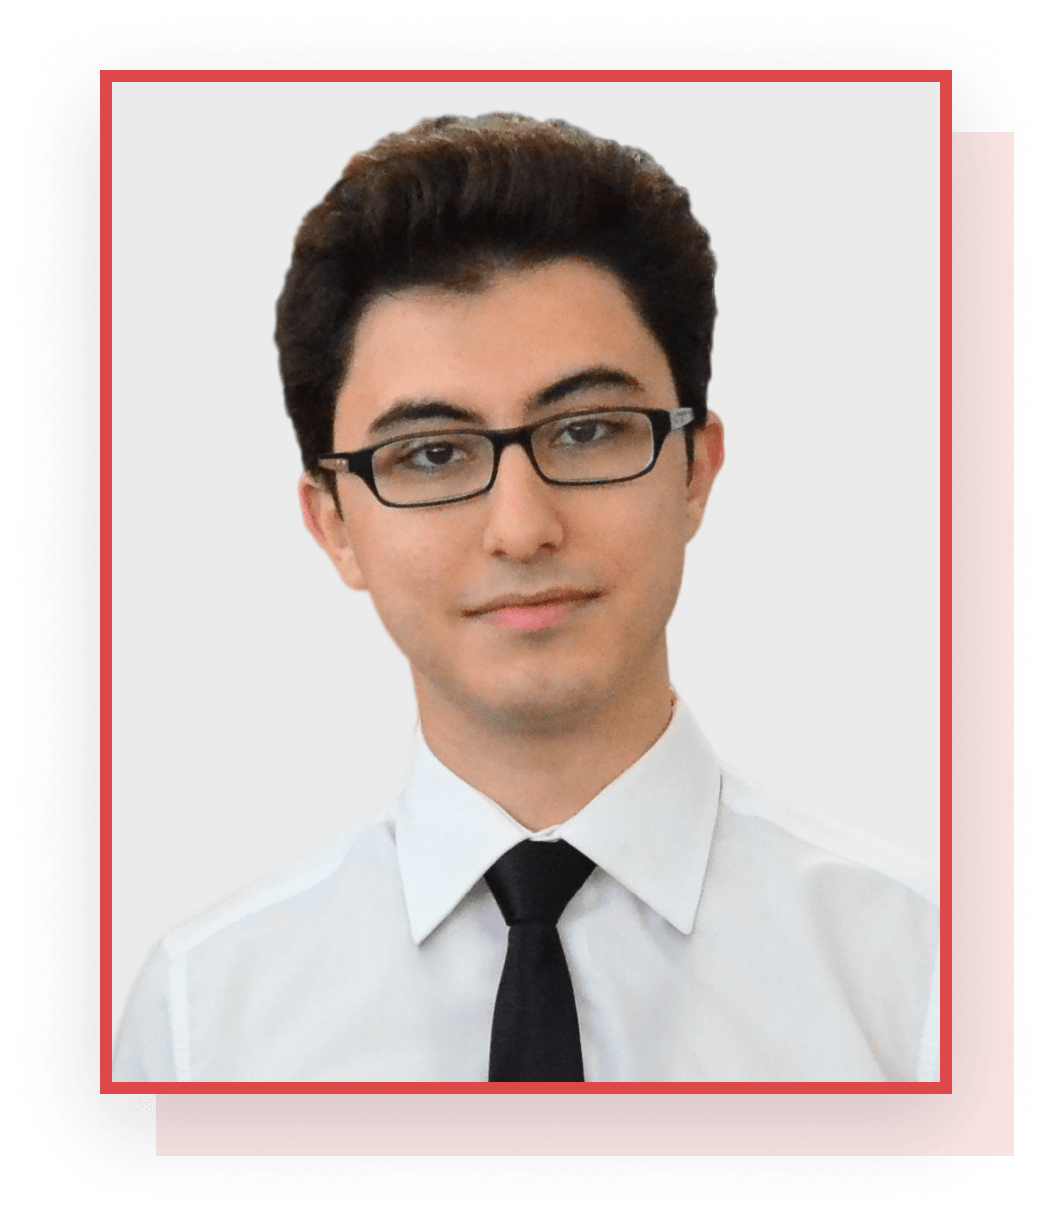
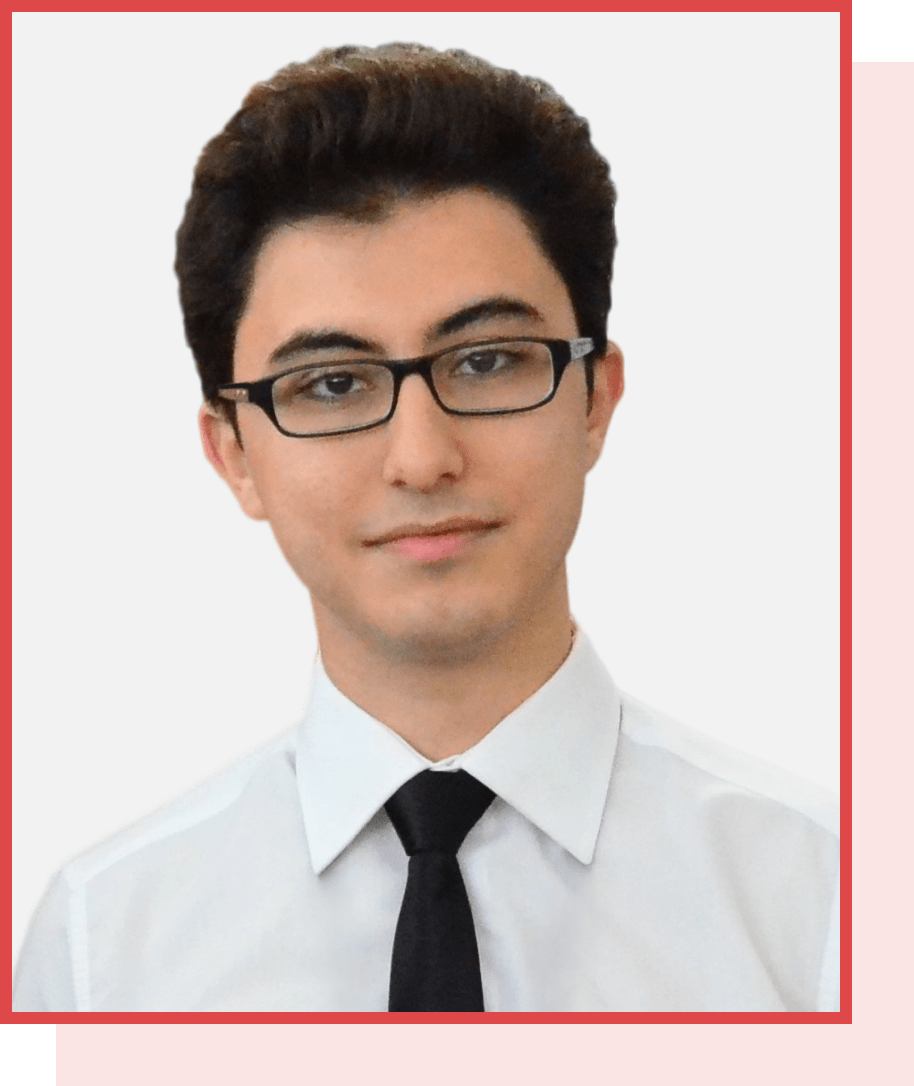
changed navbar breakpoint

diff --git a/src/components/sections/hero/hero.scss b/src/components/sections/hero/hero.scss
@@ -5,10 +5,23 @@
   display: flex;
   align-items: center;
   position: relative;
+  min-height: calc(100vh - 60px);
+
+  @include respond(tab-land) {
+    justify-content: center;
+    align-items: flex-start;
+    flex-direction: column;
+  }
 }
 
 .hero-content {
-  margin: 290px 0 350px;
+  @include respond(tab-land) {
+    margin: 0 100px 30px 0;
+  }
+
+  @include respond(tab-port) {
+    margin-right: 50px;
+  }
 }
 
 .hero-paragraph {
@@ -18,8 +31,14 @@
 .hero-photo {
   max-width: 650px;
   min-width: 400px;
-  filter: drop-shadow(0px 15px 50px rgba(0, 0, 0, 0.15));
-  margin-right: 50px;
+  // filter: drop-shadow(0px 15px 50px rgba(0, 0, 0, 0.15));
+  margin: 0 50px 0 30px;
+
+  @include respond(tab-land) {
+    margin: 0 0 30px 0px;
+    width: 20vw;
+  }
+
 }
 
 .button-layout {

diff --git a/src/components/brandLogo/brandLogo.scss b/src/components/brandLogo/brandLogo.scss
@@ -5,7 +5,7 @@
   margin: 30px 25px 0px;
   cursor: pointer;
 
-  @include respond(phone) {
+  @include respond(tab-port) {
     width: auto;
     margin: 0;
     padding-top: 20px;
@@ -21,7 +21,7 @@
   color: black;
   margin-bottom: 15px;
 
-  @include respond(phone) {
+  @include respond(tab-port) {
     font-size: 40px;
   }
 }
@@ -37,7 +37,7 @@
   line-height: 22px;
   color: black;
 
-  @include respond(phone) {
+  @include respond(tab-port) {
     display: none;
   }
 }
@@ -48,7 +48,7 @@
 }
 
 .big {
-  @include respond(phone) {
+  @include respond(tab-port) {
     display: none;
   }
 }

diff --git a/src/components/header/header.js b/src/components/header/header.js
@@ -17,7 +17,7 @@ export default class Header extends Component {
   }
 
   handleScreenSize = () => {
-    this.setState(window.innerWidth > 730 ? {navbarVisible: true} : {navbarVisible:false})
+    this.setState(window.innerWidth > 900 ? {navbarVisible: true} : {navbarVisible:false})
   }
 
   componentDidMount() {

diff --git a/src/main.scss b/src/main.scss
@@ -63,8 +63,12 @@ span {
 
 .section {
   width: calc(100vw - 340px);
-  margin: 0 0 0 280px ;
+  margin-left: 280px;
   overflow: hidden;
+
+  @include respond(tab-port) {
+    margin-left: 230px;
+  }
 }
 
 a {

diff --git a/src/components/navbar/navbar.scss b/src/components/navbar/navbar.scss
@@ -11,7 +11,7 @@
   flex-direction: column;
   justify-content: space-between;
 
-  @include respond(phone) {
+  @include respond(tab-port) {
     z-index: 5;
     width: calc(100vw - 60px);
     height: auto;

diff --git a/src/components/sections/getInTouch/getInTouch.js b/src/components/sections/getInTouch/getInTouch.js
@@ -27,8 +27,6 @@ class GetInTouch extends Component {
             <Button>Get in Touch</Button>
           </div>
         </div>
-
-        <p>© Copyright -Taha Galata</p>
       </section>
     )
   }

diff --git a/src/_variables.scss b/src/_variables.scss
@@ -17,7 +17,7 @@ $caption-red: rgba(247, 80, 80, 0.1);
   }
   // Phone
   @if $breakpoint == phone {
-    @media (max-width: 730px) {
+    @media (max-width: 600px) {
       @content;
     }
   }

diff --git a/src/components/header/header.scss b/src/components/header/header.scss
@@ -5,7 +5,7 @@
   align-items: center;
   display: none;
 
-  @include respond(phone) {
+  @include respond(tab-port) {
     display: flex;
   }
 }

diff --git a/src/components/button/button.scss b/src/components/button/button.scss
@@ -38,6 +38,7 @@
 
 .button-div {
   position: relative;
+  margin: 0 20px 30px 0;
 }
 
 .button-shadow {
